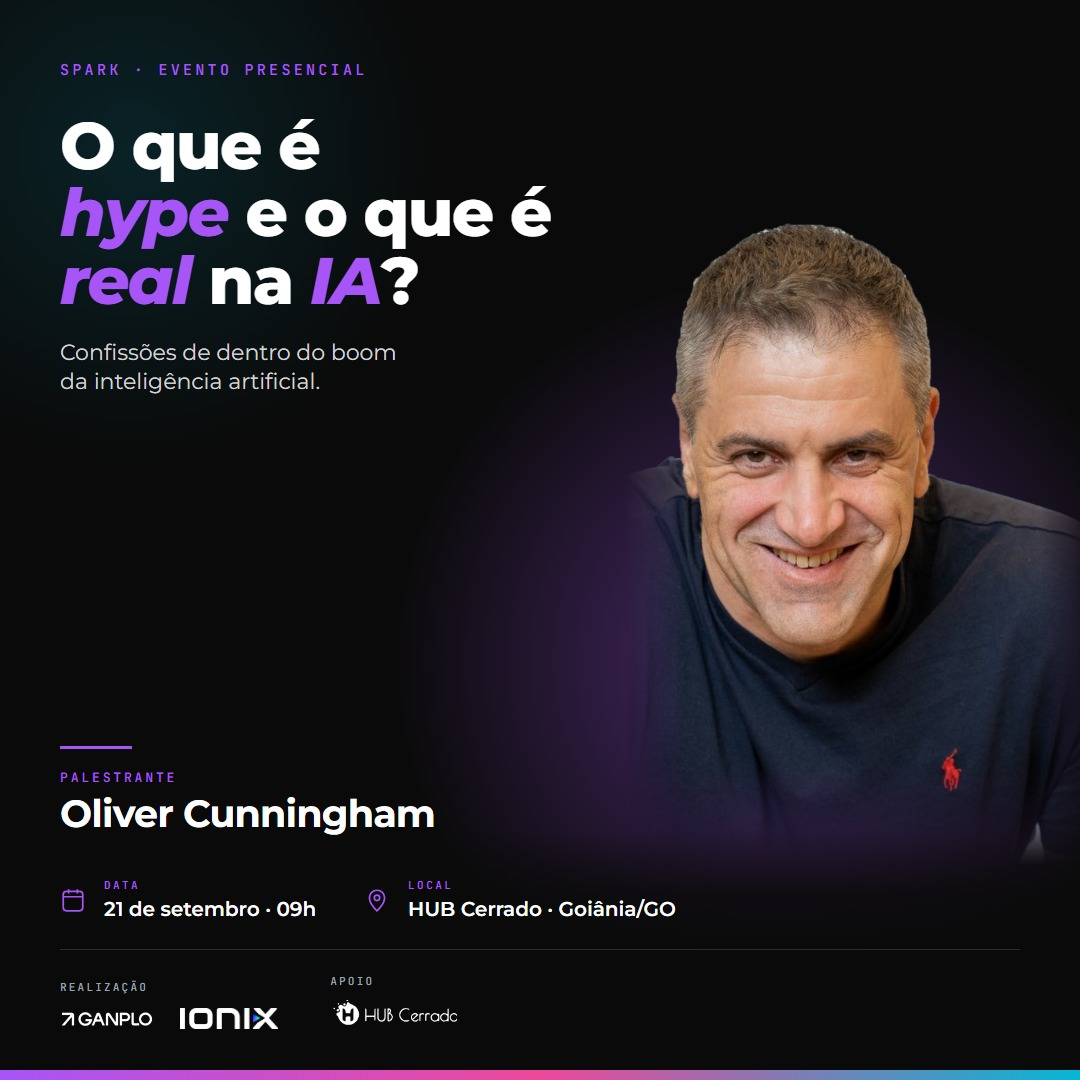
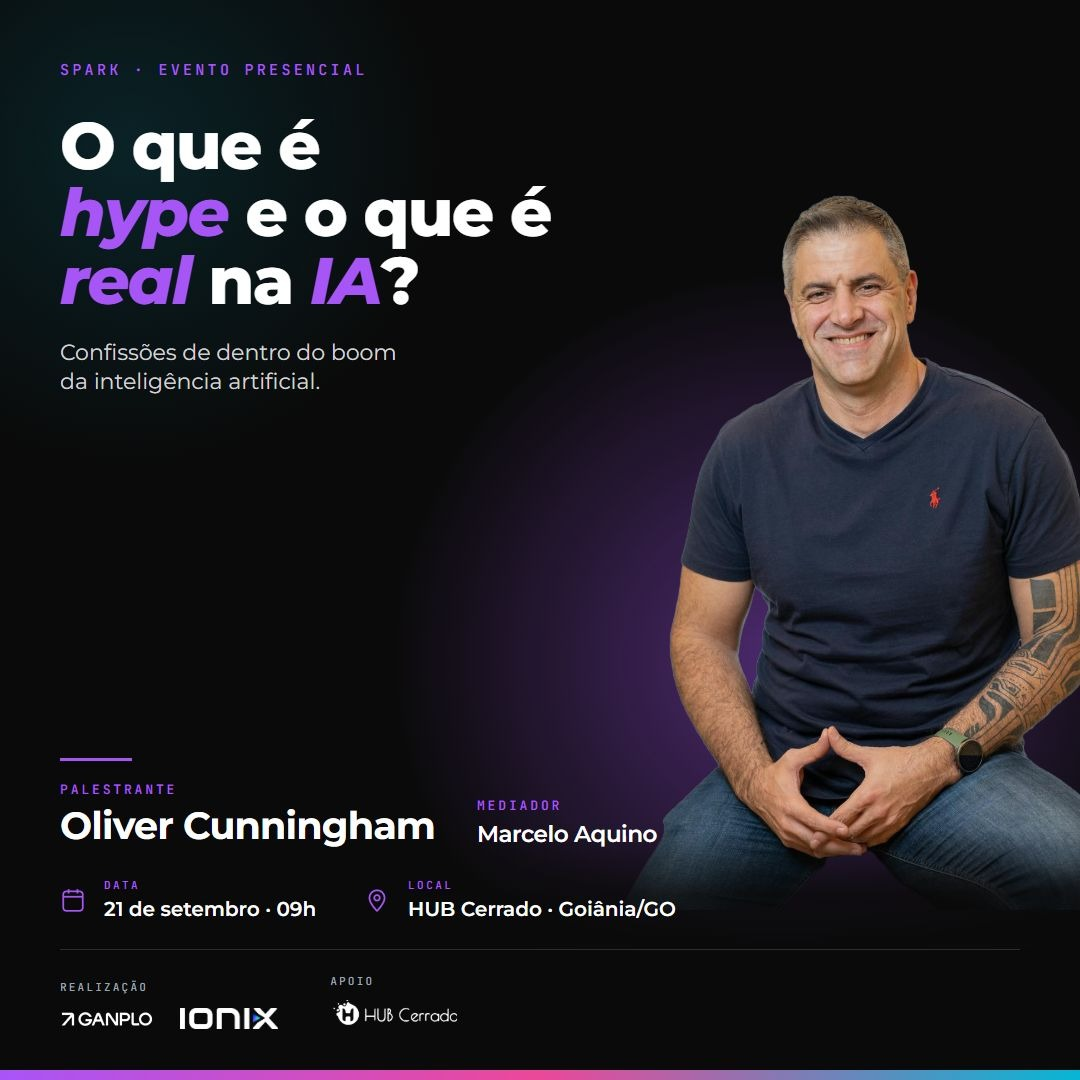
feat: aplica ajustes finais do evento Spark Goiania

Changed region(s): [[0.4278, 0.1833, 1.0, 0.825], [0.0306, 0.6722, 0.3972, 0.7944]]

diff --git a/index.html b/index.html
@@ -38,10 +38,11 @@
         <div class="rule"></div>
         <p class="lead">Agora você pode. Com a Ionix.</p>
         <p class="sub">Experimente o evento mais realista e automatizado que você já viu, pensado por nós, criado por agentes.</p>
+        <p class="hero-urgency">Vagas limitadas.</p>
         <button class="btn" onclick="openModal()">Fazer minha inscrição</button>
       </div>
       <div class="hero-art">
-        <img src="assets/evento-goiania.jpg" alt="O que é hype e o que é real na IA? Palestra com Oliver Cunningham, 21 de setembro, HUB Cerrado, Goiânia/GO">
+        <img src="assets/evento-goiania.jpg" alt="O que é hype e o que é real na IA? Palestra com Oliver Cunningham e mediação de Marcelo Aquino, 21 de setembro, HUB Cerrado, Goiânia/GO">
       </div>
     </div>
 
@@ -50,15 +51,17 @@
         <svg width="18" height="18" viewBox="0 0 24 24" fill="none" stroke="currentColor" stroke-width="1.8"><rect x="3" y="4" width="18" height="18" rx="3"/><path d="M3 9h18M8 2v4M16 2v4"/></svg>
         <span><b>21 de setembro</b> · 09h</span>
       </div>
-      <div class="info-sep"></div>
       <div class="info-item">
         <svg width="18" height="18" viewBox="0 0 24 24" fill="none" stroke="currentColor" stroke-width="1.8"><path d="M12 22s7-6.5 7-12a7 7 0 1 0-14 0c0 5.5 7 12 7 12z"/><circle cx="12" cy="10" r="2.5"/></svg>
         <span><b>HUB Cerrado</b> · Goiânia/GO</span>
       </div>
-      <div class="info-sep"></div>
       <div class="info-item">
         <svg width="18" height="18" viewBox="0 0 24 24" fill="none" stroke="currentColor" stroke-width="1.8"><circle cx="12" cy="8" r="4"/><path d="M4 21c0-4.4 3.6-8 8-8s8 3.6 8 8"/></svg>
         <span><b>Oliver Cunningham</b> · palestrante</span>
+      </div>
+      <div class="info-item">
+        <svg width="18" height="18" viewBox="0 0 24 24" fill="none" stroke="currentColor" stroke-width="1.8"><rect x="9" y="3" width="6" height="12" rx="3"/><path d="M5 10a7 7 0 0 0 14 0M12 17v4M8 21h8"/></svg>
+        <span><b>Marcelo Aquino</b> · mediador</span>
       </div>
     </div>
   </div>
@@ -73,13 +76,13 @@
     </div>
     <div class="speaker">
       <div class="speaker-photo">
-        <img src="assets/oliver-cunningham.jpg" alt="Oliver Cunningham">
+        <img src="assets/oliver-cunningham-ppt.png" alt="Oliver Cunningham, sócio da Ionix e palestrante do evento">
       </div>
       <div>
         <p class="speaker-role">Palestrante</p>
         <h3>Oliver Cunningham</h3>
         <div class="rule"></div>
-        <p class="speaker-bio">CEO e estrategista da Ionix. Depois de anos automatizando processos de empresas de verdade, ele separa o que já resolve problema do que é só promessa vazia — sem venda milagrosa, com casos reais de quem trocou o achismo por número.</p>
+        <p class="speaker-bio">Oliver Cunningham é sócio da Ionix, com 34 anos de carreira em consultoria e transformação de negócios. Atuou em posições de liderança na KPMG, com foco em serviços financeiros, transformação digital, inovação e produtos digitais. Também é professor convidado da FGV, conselheiro e sócio do Ecossistema GoNew. Em Goiânia, Oliver mostra como a inteligência artificial pode assumir processos repetitivos e ajudar empresas a ganhar eficiência no dia a dia.</p>
       </div>
     </div>
   </div>
@@ -210,7 +213,7 @@
 
         <div class="consent">
           <input type="checkbox" id="consent" name="consentimento" required>
-          <label for="consent">Autorizo a Ionix a entrar em contato comigo por WhatsApp e e-mail sobre este evento. Meus dados não são compartilhados com terceiros e posso pedir a exclusão a qualquer momento.</label>
+          <label for="consent">Autorizo a Ionix a entrar em contato comigo por e-mail sobre este evento. Meus dados não são compartilhados com terceiros e posso pedir a exclusão a qualquer momento.</label>
         </div>
 
         <button class="btn" type="submit" id="submitBtn">
@@ -218,7 +221,7 @@
           <span class="spinner" aria-hidden="true"></span>
         </button>
 
-        <p class="form-error" id="formError">Não conseguimos enviar sua inscrição agora. Tenta de novo em instantes, ou fala com a gente pelo WhatsApp.</p>
+        <p class="form-error" id="formError">Não conseguimos enviar sua inscrição agora. Tente novamente em instantes.</p>
       </form>
     </div>
 
@@ -227,7 +230,7 @@
         <svg width="27" height="27" viewBox="0 0 24 24" fill="none" stroke="currentColor" stroke-width="2.4" stroke-linecap="round" stroke-linejoin="round"><path d="m4 12.5 5.5 5.5L20 6.5"/></svg>
       </div>
       <h3>Inscrição confirmada.</h3>
-      <p>Você vai receber os detalhes do evento no WhatsApp e no e-mail cadastrados.</p>
+      <p>A equipe da Ionix usará o e-mail informado para enviar as informações do evento.</p>
       <button class="btn btn-ghost" onclick="closeModal()">Fechar</button>
     </div>
   </div>

diff --git a/styles.css b/styles.css
@@ -150,6 +150,13 @@ h1 {
   color: var(--muted);
 }
 
+.hero-urgency {
+  margin: 0 0 12px;
+  font-size: 15px;
+  font-weight: 700;
+  color: var(--violet-light);
+}
+
 .hero-art {
   border: 1px solid var(--line);
   border-radius: var(--radius);
@@ -195,10 +202,9 @@ h1 {
 /* ---------- Infobar ---------- */
 
 .infobar {
-  display: flex;
-  flex-wrap: wrap;
+  display: grid;
+  grid-template-columns: repeat(4, minmax(0, 1fr));
   align-items: center;
-  gap: 12px 28px;
   padding: 22px 26px;
   margin-bottom: 20px;
   background: var(--surface);
@@ -210,18 +216,19 @@ h1 {
   display: flex;
   align-items: center;
   gap: 11px;
-  font-size: 14px;
+  min-width: 0;
+  padding: 0 14px;
+  font-size: 13px;
   color: var(--muted);
 }
 
+.info-item:first-child { padding-left: 0; }
+.info-item:last-child { padding-right: 0; }
+.info-item + .info-item { border-left: 1px solid var(--line); }
+.info-item span { white-space: nowrap; }
+
 .info-item b { color: var(--text); font-weight: 600; }
 .info-item svg { flex: 0 0 auto; color: var(--violet); }
-
-.info-sep {
-  width: 1px;
-  height: 22px;
-  background: var(--line);
-}
 
 /* ---------- Seções ---------- */
 
@@ -251,8 +258,6 @@ section { padding: 76px 0; }
 .light .section-head p,
 .light .speaker-bio { color: var(--muted-dark); }
 
-.light .info-sep { background: #E5E7EB; }
-
 /* ---------- Palestrante ---------- */
 
 .speaker {
@@ -273,6 +278,7 @@ section { padding: 76px 0; }
   width: 100%;
   height: 100%;
   object-fit: cover;
+  object-position: center 18%;
   display: block;
 }
 
@@ -589,6 +595,9 @@ input::placeholder { color: #5A5A5A; }
 @media (max-width: 940px) {
   .hero { grid-template-columns: 1fr; gap: 40px; padding: 40px 0 48px; }
   .hero-art { max-width: 520px; }
+  .infobar { grid-template-columns: repeat(2, minmax(0, 1fr)); row-gap: 18px; }
+  .info-item:nth-child(odd) { padding-left: 0; border-left: none; }
+  .info-item:nth-child(even) { padding-right: 0; }
   .roteiro { grid-template-columns: repeat(2, 1fr); }
   .speaker { grid-template-columns: 240px 1fr; gap: 34px; }
 }
@@ -600,8 +609,8 @@ input::placeholder { color: #5A5A5A; }
 @media (max-width: 680px) {
   .wrap { padding: 0 20px; }
   section { padding: 56px 0; }
-  .info-sep { display: none; }
-  .infobar { flex-direction: column; align-items: flex-start; gap: 14px; }
+  .infobar { grid-template-columns: 1fr; align-items: start; gap: 14px; }
+  .info-item { padding: 0; border-left: none !important; }
   .roteiro { grid-template-columns: 1fr; }
   .speaker { grid-template-columns: 1fr; gap: 26px; }
   .speaker-photo { max-width: 260px; }

diff --git a/arte/arte.html b/arte/arte.html
@@ -27,7 +27,7 @@
   .glow-b{ left:-320px; top:-300px; width:900px; height:900px;
     background:radial-gradient(closest-side, rgba(6,182,212,.14), transparent 70%); }
 
-  .foto{ position:absolute; right:-14px; bottom:250px; width:572px; }
+  .foto{ position:absolute; right:-40px; bottom:205px; width:620px; }
 
   /* escurece o pé pra data, local e créditos lerem por cima da foto */
   .pe{
@@ -55,12 +55,15 @@
 
   .rule{ width:88px; height:4px; background:var(--violet); }
 
-  .palestrante{ padding-bottom:44px; }
+  .pessoas{
+    display:flex; align-items:flex-end; gap:58px; padding-bottom:40px;
+  }
   .rotulo{
     font-family:var(--mono); font-size:15px; font-weight:500;
     text-transform:uppercase; letter-spacing:.22em; color:var(--violet);
   }
   .nome{ margin-top:8px; font-size:46px; font-weight:700; line-height:1.06; letter-spacing:-.02em; }
+  .mediador .nome{ font-size:27px; font-weight:600; }
 
   /* data e local ancorados no pé, em linha: fecham a composição e
      equilibram o peso do retrato à direita */
@@ -96,7 +99,7 @@
   <div class="glow-a"></div>
   <div class="glow-b"></div>
 
-  <img class="foto" src="oliver_arte.png" alt="">
+  <img class="foto" src="../assets/oliver-cunningham-ppt.png" alt="">
   <div class="pe"></div>
 
   <div class="topo">
@@ -109,9 +112,15 @@
 
   <div class="rodape">
     <div class="rule"></div>
-    <div class="palestrante">
-      <div class="rotulo">Palestrante</div>
-      <div class="nome">Oliver Cunningham</div>
+    <div class="pessoas">
+      <div class="palestrante">
+        <div class="rotulo">Palestrante</div>
+        <div class="nome">Oliver Cunningham</div>
+      </div>
+      <div class="mediador">
+        <div class="rotulo">Mediador</div>
+        <div class="nome">Marcelo Aquino</div>
+      </div>
     </div>
 
     <div class="infos">

diff --git a/arte/gerar_artes.py b/arte/gerar_artes.py
@@ -15,13 +15,15 @@ FORMATOS = {
       .eyebrow{ font-size:15px; }
       h1{ margin-top:32px; max-width:530px; font-size:66px; }
       .sub{ margin-top:24px; max-width:350px; font-size:22px; }
-      .foto{ right:-12px; bottom:214px; width:468px; }
+      .foto{ right:-32px; bottom:170px; width:505px; }
       .pe{ height:250px; }
       .rodape{ left:60px; right:60px; bottom:50px; }
       .rodape .rule{ margin-bottom:20px; }
       .rule{ width:72px; height:3px; }
       .rotulo{ font-size:13px; }
       .nome{ font-size:38px; }
+      .pessoas{ gap:42px; padding-bottom:32px; }
+      .mediador .nome{ font-size:23px; }
       .infos{ gap:48px; padding-bottom:28px; }
       .info svg{ width:26px; height:26px; }
       .info .rotulo{ font-size:11px; }
@@ -38,12 +40,14 @@ FORMATOS = {
       .eyebrow{ font-size:19px; }
       h1{ margin-top:46px; max-width:720px; font-size:92px; }
       .sub{ margin-top:34px; max-width:470px; font-size:30px; }
-      .foto{ right:-16px; bottom:400px; width:660px; }
+      .foto{ right:-46px; bottom:330px; width:720px; }
       .pe{ height:420px; }
       .glow-a{ top:300px; }
       .rodape{ left:84px; right:84px; bottom:150px; }
       .rodape .rule{ margin-bottom:30px; }
       .nome{ font-size:54px; }
+      .pessoas{ gap:70px; padding-bottom:46px; }
+      .mediador .nome{ font-size:31px; }
       .infos{ gap:72px; padding-bottom:40px; }
       .info .valor{ font-size:27px; }
       .creditos{ padding-top:36px; }
@@ -59,6 +63,10 @@ for nome, (w, h, extra) in FORMATOS.items():
         html = html.replace('</style>', extra + '\n</style>')
     tmp = os.path.join(BASE, '_fmt_%s.html' % nome)
     io.open(tmp, 'w', encoding='utf-8').write(html)
+
+    if '--html-only' in sys.argv:
+        print('%-14s %dx%d  HTML preparado' % (nome, w, h))
+        continue
 
     png = os.path.join(BASE, '_fmt_%s.png' % nome)
     subprocess.run([CHROME, '--headless', '--disable-gpu', '--hide-scrollbars',

diff --git a/README.md b/README.md
@@ -1,8 +1,8 @@
 # Spark — evento Goiânia (21/09)
 
 Landing do evento presencial **"O que é hype e o que é real na IA?"** — palestra do
-Oliver Cunningham no HUB Cerrado, Goiânia/GO, 21 de setembro, 09h. Realização
-Ganplo · Ionix.
+Oliver Cunningham, com mediação de Marcelo Aquino, no HUB Cerrado, Goiânia/GO,
+21 de setembro, 09h. Realização Ganplo · Ionix.
 
 Reconstrução da landing anterior (`papaya-squirrel-5dc4d7.netlify.app`) na
 **identidade visual canônica da Ionix**: violeta `#A855F7`, fundo `#0A0A0A`,
@@ -69,6 +69,10 @@ deploy, então depois de subir vale conferir em **Site configuration → Forms**
 se `inscricao-evento-goiania` aparece na lista. É lá que caem as inscrições, e
 é lá que se liga a notificação por e-mail a cada envio.
 
+O formulário mantém nome, WhatsApp, e-mail, empresa, setor, cargo e faturamento.
+A comunicação inicial informada ao inscrito é feita somente por e-mail; o campo
+de WhatsApp permanece como dado de cadastro, sem promessa de contato por esse canal.
+
 ### Sobre o site que já está no ar
 
 A versão anterior roda em `papaya-squirrel-5dc4d7.netlify.app`. Se esse link já
@@ -79,10 +83,11 @@ o link muda e o histórico do form fica no site antigo.
 
 ## Assets
 
-- `evento-goiania.jpg` — arte oficial do evento (Ganplo)
-- `oliver-cunningham.jpg` — foto real do Oliver, recorte 4:5 de
-  `Ionix Tech/Marketing/Fotos Perfil Sócio/Oliver.jpeg` (Drive). A versão de
-  origem tem 800×800; se aparecer o arquivo em alta da mesma sessão, refazer o
-  crop a partir dele.
+- `evento-goiania.jpg` — arte do hero na identidade Ionix, com a foto do PPT,
+  Oliver como palestrante e Marcelo Aquino como mediador
+- `oliver-cunningham-ppt.png` — foto indicada pela Maeli e extraída do mini-CV
+  `OEC Mini CV.pptx`; usada na seção do palestrante com recorte responsivo em CSS.
+- `oliver-cunningham.jpg` — foto anterior, preservada no repo como referência e
+  sem uso na landing atual.
 - `ionix-logo-dark.png` — logo Ionix negativo (fundo escuro)
 - `ionix-logo-light.png` — logo Ionix positivo (fundo claro), não usado hoje
